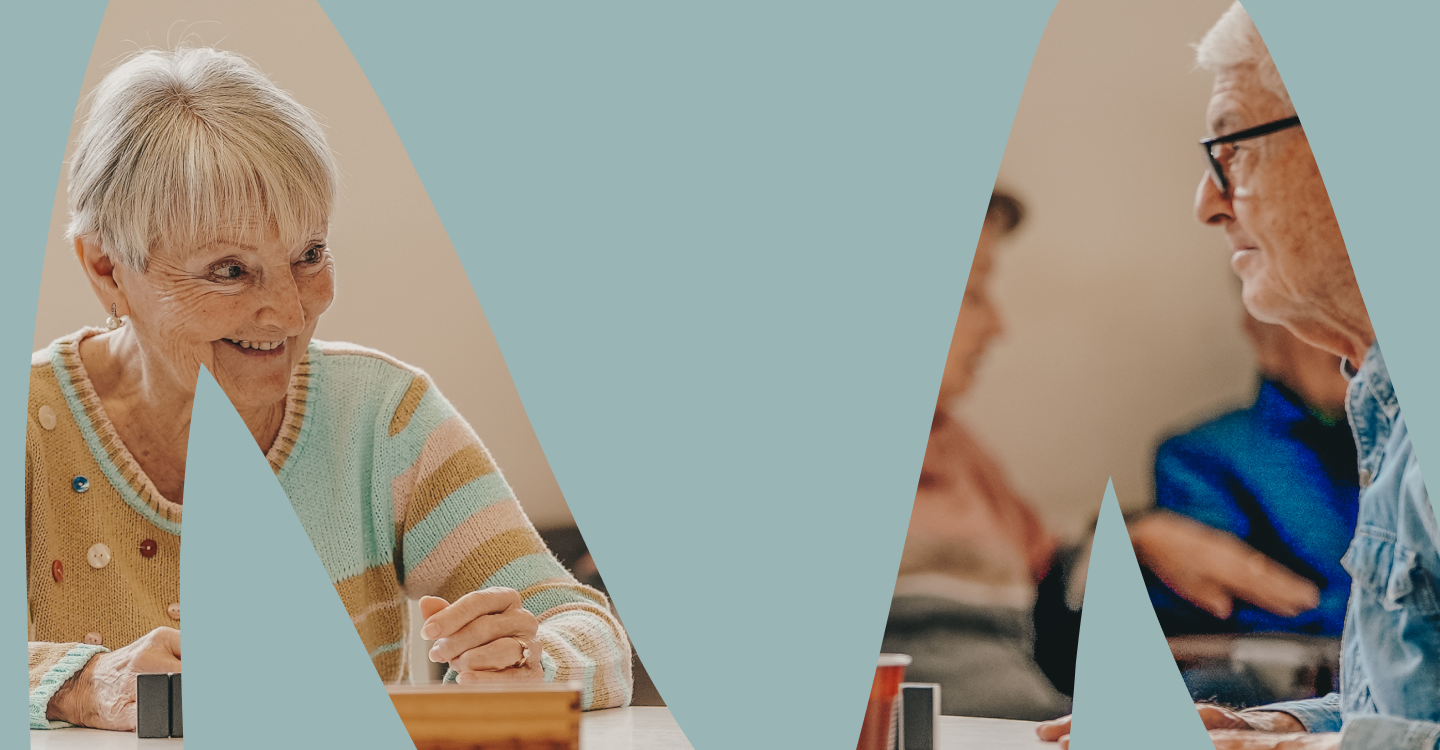
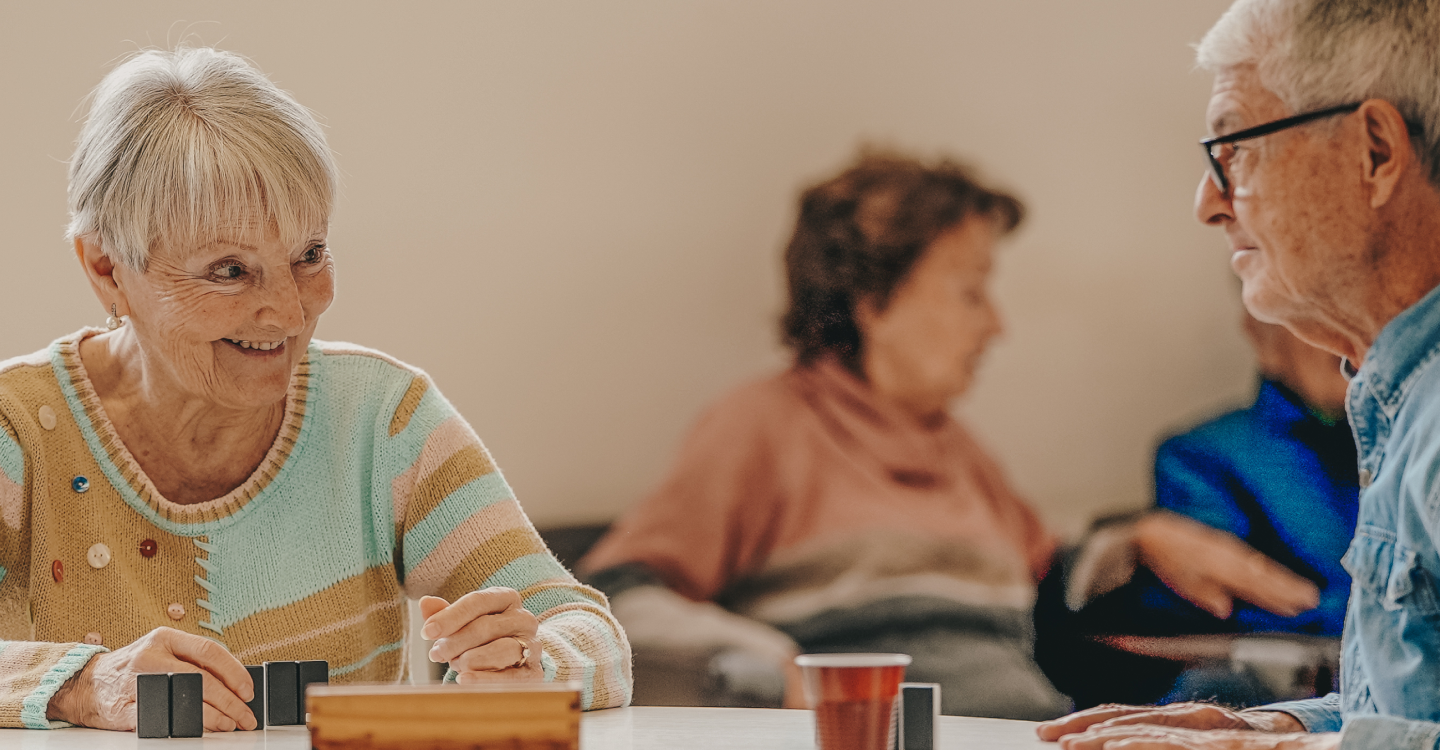
fixed typography stuff, fixed number comppnent

diff --git a/components/partials/home/HeroSection.vue b/components/partials/home/HeroSection.vue
@@ -1,7 +1,11 @@
 <template>
-    <section class="h-screen max-h-[46.94rem] relative flex justify-center items-center">
-        <img v-if="width <= 768 && width != null" class="z-0 absolute top-0 left-0 h-full w-full object-cover object-center md:hidden" src="/images/home/hero-background.webp" alt="" srcset="">
-        <img  v-if="width > 768 && width != null" class="hidden z-0 absolute top-0 left-0 h-full w-full object-cover object-left-top md:block" src="/images/home/hero-background-md.webp" alt="" srcset="">
+    <section class="h-screen max-h-[46.94rem] relative flex justify-center items-center bg-Turquoise overflow-hidden">
+        <div v-if="width <= 768 && width != null" class="background-wrapper absolute top-[7rem] left-0 h-full w-full z-0 ">
+            <img  class="z-0 fixed top-0 left-0 h-full w-full object-cover object-center" src="/images/home/hero-background.webp" alt="" srcset="">
+        </div>
+        <div v-if="width > 768 && width != null" class="background-wrapper-md absolute top-0 left-0 h-full w-full z-0 ">
+            <img   class="fixed top-0 left-0 h-full w-full object-cover object-left-top " src="/images/home/hero-background-md.webp" alt="" srcset="">
+        </div>
         
         <div class="flex z-10 flex-col items-center gap-y-8 text-center px-4 ">
             <h1 class="text-2xl font-bold tracking-[0.15rem] max-w-[20.2rem] 
@@ -21,3 +25,12 @@
      });
  });
 </script>
+
+<style scoped>
+.background-wrapper-md{
+    clip-path: path("M1800.12 954.513C1804.19 980.26 1799.71 1004.06 1786.67 1025.92C1773.64 1047.78 1756.87 1066.93 1736.37 1083.37C1715.36 1096.6 1692.49 1108.47 1667.76 1118.98C1646.24 1128.99 1627.43 1135.27 1611.34 1137.82C1543.73 1148.53 1480.17 1122.3 1420.67 1059.15C1360.65 992.776 1307.67 918.693 1261.71 836.898C1215.25 751.884 1177.85 672.033 1149.52 597.343C1124.41 522.144 1111.34 481.326 1110.32 474.889C1096.61 513.35 1085.12 576.203 1075.83 663.448C1069.77 750.183 1059.13 839.292 1043.92 930.775C1028.2 1019.04 1003.15 1100.53 968.786 1175.26C937.129 1246.25 887.496 1287.1 819.889 1297.81C787.695 1302.91 754.052 1288.44 718.961 1254.41C683.869 1220.38 648.604 1174.83 613.164 1117.77C577.724 1060.7 541.009 995.583 503.021 922.423C468.251 848.753 432.127 776.947 394.648 707.005C360.389 636.554 326.894 570.93 294.163 510.133C260.923 446.118 229.977 396.586 201.325 361.535C189.654 412.869 182.397 481.649 179.553 567.874C179.928 653.589 182.678 743.877 187.802 838.738C192.416 930.38 198.64 1021.77 206.473 1112.9C214.307 1204.03 223.576 1283.39 234.28 1350.97C241.416 1396.03 233.636 1430.25 210.939 1453.64C191.462 1476.52 168.845 1490 143.09 1494.08C107.677 1499.69 68.6954 1482.77 26.1458 1443.32C-16.9135 1400.66 -62.0117 1345.12 -109.149 1276.71C-156.286 1208.29 -203.343 1129.97 -250.319 1041.74C-294.075 952.998 -336.222 864.002 -376.76 774.751C-414.078 684.989 -445.802 599.29 -471.933 517.654C-498.573 432.8 -516.48 361.408 -525.656 303.479C-532.282 261.641 -536.789 222.766 -539.177 186.855C-540.545 157.38 -543.268 129.77 -547.346 104.023C-548.204 77.7672 -548.888 63.0299 -549.398 59.8116C-550.927 50.1567 -555.166 44.23 -562.114 42.0316C-565.844 39.3231 -568.728 31.5323 -570.767 18.6591C-572.296 9.00422 -563.322 -7.26278 -543.844 -30.1419C-521.657 -56.7492 -497.686 -72.0925 -471.931 -76.1717C-426.859 -83.3104 -396.355 -78.2446 -380.419 -60.9744C-361.264 -44.214 -349.647 -22.9607 -345.57 2.78563C-344.04 12.4405 -343.356 27.1778 -343.517 46.9975C-340.459 66.3074 -333.578 109.754 -322.873 177.339C-315.737 222.395 -296.984 288.704 -266.615 376.267C-236.246 463.83 -202.402 552.492 -165.084 642.253C-127.766 732.015 -91.4677 815.339 -56.1886 892.228C-18.2 965.388 10.3721 1010.35 29.5274 1027.11C33.9274 1013.21 34.8529 998.223 32.3043 982.131C32.4653 962.311 33.3909 947.319 35.0812 937.154L25.5047 532.89C22.5807 431.084 31.7697 322.41 53.0717 206.869C77.0834 87.5994 106.783 -6.17836 142.169 -74.4646C154.189 -102.76 169.856 -118.438 189.173 -121.498C208.489 -124.557 228.49 -112.879 249.174 -86.4639C318.176 -5.01992 372.691 78.7187 412.719 164.752C455.456 247.057 493.364 330.126 526.443 413.961C562.232 494.067 599.885 575.528 639.403 658.343C681.631 737.43 738.6 815.831 810.312 893.547C829.441 847.63 850.931 774.946 874.781 675.497C898.122 572.829 921.463 470.161 944.804 367.493C971.365 264.316 996.744 174.521 1020.94 98.1096C1044.63 18.4798 1066.14 -22.8648 1085.45 -25.9242C1095.11 -27.4539 1111.46 -28.3943 1134.51 -28.7452C1157.55 -29.0963 1173.91 -30.0367 1183.56 -31.5664C1212.54 -36.1555 1242.04 -6.18764 1272.06 58.3372C1301.57 119.644 1329.9 194.333 1357.05 282.406C1386.91 366.751 1415.41 452.959 1442.56 541.032C1472.42 625.377 1500.58 688.547 1527.03 730.544C1545.01 760.687 1569.16 788.202 1599.51 813.087C1629.85 837.973 1659.94 861.249 1689.77 882.916C1726.55 906.782 1763.33 930.648 1800.12 954.513Z");
+}
+.background-wrapper{
+    clip-path: path("M868.503 501.529C870.402 513.516 868.316 524.598 862.245 534.775C856.175 544.952 848.368 553.868 838.825 561.524C829.045 567.68 818.397 573.207 806.88 578.103C796.863 582.761 788.107 585.684 780.613 586.871C749.136 591.856 719.546 579.648 691.842 550.245C663.9 519.343 639.231 484.852 617.835 446.77C596.201 407.19 578.79 370.013 565.6 335.239C553.908 300.228 547.826 281.224 547.351 278.227C540.968 296.133 535.616 325.396 531.294 366.016C528.471 406.397 523.518 447.884 516.436 490.477C509.116 531.571 497.456 569.513 481.456 604.302C466.717 637.355 443.609 656.375 412.132 661.36C397.144 663.734 381.48 656.999 365.143 641.155C348.805 625.312 332.386 604.105 315.886 577.535C299.386 550.965 282.293 520.65 264.606 486.588C248.418 452.289 231.6 418.858 214.15 386.295C198.2 353.494 182.606 322.941 167.367 294.636C151.891 264.832 137.483 241.771 124.143 225.452C118.71 249.352 115.331 281.374 114.007 321.519C114.182 361.426 115.462 403.462 117.848 447.626C119.996 490.293 122.893 532.84 126.541 575.269C130.188 617.698 134.503 654.646 139.487 686.111C142.809 707.088 139.187 723.022 128.62 733.911C119.552 744.563 109.022 750.839 97.031 752.738C80.5434 755.349 62.3945 747.472 42.5844 729.106C22.537 709.242 1.54032 683.385 -20.4056 651.534C-42.3516 619.683 -64.26 583.218 -86.131 542.139C-106.503 500.823 -126.126 459.389 -144.999 417.836C-162.373 376.045 -177.143 336.145 -189.309 298.138C-201.712 258.631 -210.05 225.393 -214.321 198.422C-217.406 178.944 -219.505 160.845 -220.616 144.125C-221.253 130.403 -222.521 117.548 -224.42 105.561C-224.819 93.3365 -225.138 86.4752 -225.375 84.9768C-226.087 80.4817 -228.061 77.7224 -231.296 76.6989C-233.032 75.4379 -234.375 71.8106 -235.324 65.8172C-236.036 61.3221 -231.858 53.7486 -222.789 43.0966C-212.46 30.7088 -201.299 23.5654 -189.308 21.6662C-168.324 18.3426 -154.122 20.7011 -146.703 28.7417C-137.784 36.5449 -132.376 46.44 -130.478 58.4269C-129.766 62.9219 -129.447 69.7833 -129.522 79.0109C-128.098 88.0011 -124.894 108.229 -119.911 139.695C-116.588 160.672 -107.857 191.544 -93.7181 232.311C-79.5789 273.078 -63.8221 314.357 -46.4477 356.148C-29.0734 397.939 -12.1736 436.733 4.25143 472.53C21.9381 506.592 35.2405 527.524 44.1588 535.327C46.2073 528.859 46.6382 521.879 45.4516 514.387C45.5266 505.159 45.9576 498.179 46.7445 493.447L42.2859 305.231C40.9246 257.832 45.2028 207.236 55.1205 153.443C66.2998 97.9141 80.127 54.2534 96.6023 22.461C102.198 9.28708 109.493 1.98795 118.486 0.563555C127.479 -0.86084 136.791 4.5761 146.421 16.8744C178.547 54.7928 203.928 93.7795 222.564 133.834C242.461 172.154 260.11 210.829 275.511 249.86C292.174 287.156 309.704 325.082 328.103 363.639C347.763 400.46 374.286 436.962 407.674 473.144C416.58 451.766 426.585 417.927 437.689 371.625C448.556 323.826 459.423 276.026 470.29 228.226C482.656 180.189 494.472 138.383 505.739 102.807C516.768 65.7337 526.779 46.4846 535.773 45.0602C540.269 44.348 547.882 43.9102 558.612 43.7468C569.341 43.5834 576.954 43.1456 581.451 42.4334C594.941 40.2968 608.674 54.2491 622.651 84.2904C636.391 112.833 649.581 147.607 662.221 188.612C676.123 227.88 689.394 268.017 702.035 309.022C715.937 348.291 729.046 377.701 741.361 397.254C749.73 411.288 760.978 424.098 775.105 435.684C789.231 447.27 803.24 458.107 817.129 468.195C834.254 479.306 851.378 490.417 868.503 501.529Z");
+}
+</style>

diff --git a/components/partials/balanc/ThirdSection.vue b/components/partials/balanc/ThirdSection.vue
@@ -55,31 +55,31 @@
                 </div>
                 <div class="w-full py-5 px-2.5 flex justify-between items-center gap-x-4">
                     <div >Fundació Catalunya La Pedrera</div>
-                    <div class="shrink-0 font-super-rotesk-comp tracking-[2px] font-bold">65</div>
+                    <div class="shrink-0 font-super-rotesk-comp tracking-[2px] font-bold"><Number  :number="65" /></div>
                 </div>
                 <div class="w-full py-5 px-2.5 flex justify-between items-center gap-x-4">
                     <div >Col·legi Oms i de Prat</div>
-                    <div class="shrink-0 font-super-rotesk-comp tracking-[2px] font-bold">66</div>
+                    <div class="shrink-0 font-super-rotesk-comp tracking-[2px] font-bold"><Number  :number="66" /></div>
                 </div>
                 <div class="w-full py-5 px-2.5 flex justify-between items-center gap-x-4">
                     <div >Serveis Personals TFCLP (1)</div>
-                    <div class="shrink-0 font-super-rotesk-comp tracking-[2px] font-bold">194</div>
+                    <div class="shrink-0 font-super-rotesk-comp tracking-[2px] font-bold"><Number  :number="194" /></div>
                 </div>
                 <div class="w-full py-5 px-2.5 flex justify-between items-center gap-x-4">
                     <div >Fundació Topromi</div>
-                    <div class="shrink-0 font-super-rotesk-comp tracking-[2px] font-bold">44</div>
+                    <div class="shrink-0 font-super-rotesk-comp tracking-[2px] font-bold"><Number  :number="44" /></div>
                 </div>
                 <div class="w-full py-5 px-2.5 flex justify-between items-center gap-x-4">
                     <div >Fundació Alícia</div>
-                    <div class="shrink-0 font-super-rotesk-comp tracking-[2px] font-bold">19</div>
+                    <div class="shrink-0 font-super-rotesk-comp tracking-[2px] font-bold"><Number  :number="19" /></div>
                 </div>
                 <div class="w-full py-5 px-2.5 flex justify-between items-center gap-x-4">
                     <div >Món Sant Benet SL</div>
-                    <div class="shrink-0 font-super-rotesk-comp tracking-[2px] font-bold">65</div>
+                    <div class="shrink-0 font-super-rotesk-comp tracking-[2px] font-bold"><Number  :number="65" /></div>
                 </div>
                 <div class="w-full py-5 px-2.5 flex justify-between items-center gap-x-4">
                     <div >Cooperativa 2147 Mans</div>
-                    <div class="shrink-0 font-super-rotesk-comp tracking-[2px] font-bold">37</div>
+                    <div class="shrink-0 font-super-rotesk-comp tracking-[2px] font-bold"><Number  :number="37" /></div>
                 </div>
 
 
@@ -92,19 +92,19 @@
                 
                 <div class="w-full py-5 px-2.5 flex justify-between items-center gap-x-4">
                     <div >Serveis Espais Socials (2)</div>
-                    <div class="shrink-0 font-super-rotesk-comp tracking-[2px] font-bold">264</div>
+                    <div class="shrink-0 font-super-rotesk-comp tracking-[2px] font-bold"><Number  :number="264" /></div>
                 </div>
                 <div class="w-full py-5 px-2.5 flex justify-between items-center gap-x-4">
                     <div >Serveis induïts La Pedrera (3)</div>
-                    <div class="shrink-0 font-super-rotesk-comp tracking-[2px] font-bold">40</div>
+                    <div class="shrink-0 font-super-rotesk-comp tracking-[2px] font-bold"><Number  :number="40" /></div>
                 </div>
                 <div class="w-full py-5 px-2.5 flex justify-between items-center gap-x-4">
                     <div >Serveis induïts Món Sant Benet (3)</div>
-                    <div class="shrink-0 font-super-rotesk-comp tracking-[2px] font-bold">16</div>
+                    <div class="shrink-0 font-super-rotesk-comp tracking-[2px] font-bold"><Number  :number="16" /></div>
                 </div>
                 <div class="w-full py-5 px-2.5 flex justify-between items-center gap-x-4">
                     <div >Productors associats</div>
-                    <div class="shrink-0 font-super-rotesk-comp tracking-[2px] font-bold">39</div>
+                    <div class="shrink-0 font-super-rotesk-comp tracking-[2px] font-bold"><Number  :number="39" /></div>
                 </div>
 
 

diff --git a/components/UI/Number.vue b/components/UI/Number.vue
@@ -1,7 +1,7 @@
 <template>
     <span ref="numberComponent">
         <span v-if="dot_formated">{{formatedNumber}}</span>
-        <span v-else>{{displayedNumber}}</span>
+        <span v-else>{{toNaturalNum(displayedNumber)}}</span>
         
     </span>
 </template>
@@ -28,10 +28,14 @@ function countDecimals(number) {
     numberOfDecimals.value = numberString.length - decimalIndex - 1;
   }
 }
-
+function toNaturalNum(num) {
+    if(!numberOfDecimals.value && props.number < 100){
+        return Math.trunc(num);
+    }
+    return num;
+}
 function increase() {
     clearInterval(interval.value)
-    // displayedNumber.value = props.number/200
     interval.value = setInterval(() => {
         let temp = displayedNumber.value + props.number/100
         if(props.number/100 < 1 && !numberOfDecimals.value){

diff --git a/components/partials/territori/HeroSection.vue b/components/partials/territori/HeroSection.vue
@@ -8,9 +8,9 @@
                         sm:text-[2.5rem]
                         md:text-[3rem] md:tracking-[-1.28px]
                         lg:text-[4rem]">Impacte social</h1>
-            <h2 class=" text-[1.4rem] xs:text-[2.5rem] font-normal tracking-[0.8rem] max-w-[28.2rem] leading-none 
+            <h2 class=" text-[1.4rem] xs:text-[2.5rem] tracking-[0.25rem] font-normal  max-w-[28.2rem] leading-none 
                         sm:text-[3.6rem] sm:max-w-[34rem]
-                        md:text-[5rem] md:max-w-[46.25rem]
+                        md:text-[5rem] md:max-w-[46.25rem] md:tracking-[0.8rem]
                         lg:text-[7rem] lg:max-w-[57rem]">
                SOSTENIBILITAT <br> I TERRITORI
             </h2>

diff --git a/components/partials/envelliment-digne/HeroSection.vue b/components/partials/envelliment-digne/HeroSection.vue
@@ -8,9 +8,9 @@
                         sm:text-[2.5rem]
                         md:text-[3rem] md:tracking-[-1.28px]
                         lg:text-[4rem]">Impacte social</h1>
-            <h2 class="text-[1.8rem] xs:text-[2.5rem] font-normal tracking-[0.8rem] max-w-[22.2rem] leading-none 
+            <h2 class="text-[1.8rem] xs:text-[2.5rem] font-normal tracking-[0.25rem] max-w-[22.2rem] leading-none 
                         sm:text-[4rem] sm:max-w-[28rem]
-                        md:text-[6rem] md:max-w-[46.25rem]
+                        md:text-[6rem] md:max-w-[46.25rem] md:tracking-[0.8rem]
                         lg:text-[8rem]">
               ENVELLIMENT <br> DIGNE
             </h2>

diff --git a/components/partials/impact/HeroSection.vue b/components/partials/impact/HeroSection.vue
@@ -8,9 +8,9 @@
                         sm:text-[2.5rem]
                         md:text-[3rem] md:tracking-[-1.28px]
                         lg:text-[4rem]">Reimaginar la Fundació</h2>
-            <h1 class="text-[2.5rem] font-normal tracking-[0.8rem] max-w-[22.2rem] leading-none 
+            <h1 class="text-[2.5rem] font-normal tracking-[0.25rem] max-w-[22.2rem] leading-none 
                         sm:text-[4rem] sm:max-w-[28rem]
-                        md:text-[6rem] md:max-w-[46.25rem]
+                        md:text-[6rem] md:max-w-[46.25rem] md:tracking-[0.8rem]
                         lg:text-[8rem]">IMPACTE SOCIAL</h1>
         </div>
     </section>

diff --git a/components/partials/ocupacio-inclusiva/HeroSection.vue b/components/partials/ocupacio-inclusiva/HeroSection.vue
@@ -8,9 +8,9 @@
                         sm:text-[2.5rem]
                         md:text-[3rem] md:tracking-[-1.28px]
                         lg:text-[4rem] ">Impacte social</h1>
-            <h2 class="text-[2.5rem] font-normal tracking-[0.8rem] max-w-[22.2rem] leading-none 
+            <h2 class="text-[2.5rem] font-normal tracking-[0.25rem] max-w-[22.2rem] leading-none 
                         sm:text-[4rem] sm:max-w-[28rem]
-                        md:text-[6rem] md:max-w-[46.25rem]
+                        md:text-[6rem] md:max-w-[46.25rem] md:tracking-[0.8rem]
                         lg:text-[8rem]">
                 OCUPACIÓ INCLUSIVA
             </h2>

diff --git a/components/partials/vocacio/HeroSection.vue b/components/partials/vocacio/HeroSection.vue
@@ -8,9 +8,9 @@
                         sm:text-[2.5rem]
                         md:text-[3rem] md:tracking-[-1.28px]
                         lg:text-[4rem]">Impacte social</h2>
-            <h1 class="text-[2.5rem] font-normal tracking-[0.8rem] max-w-[22.2rem] leading-none 
+            <h1 class="text-[2.5rem] font-normal tracking-[0.25rem] max-w-[22.2rem] leading-none 
                         sm:text-[4rem] sm:max-w-[28rem]
-                        md:text-[6rem] md:max-w-[46.25rem]
+                        md:text-[6rem] md:max-w-[46.25rem] sm:tracking-[0.8rem]
                         lg:text-[8rem]">VOCACIÓ I TALENT</h1>
         </div>
     </section>

diff --git a/components/partials/alimentacio/HeroSection.vue b/components/partials/alimentacio/HeroSection.vue
@@ -8,7 +8,7 @@
                         sm:text-[2.5rem]
                         md:text-[3rem] md:tracking-[-1.28px]
                         lg:text-[4rem] ">Impacte social</h1>
-            <h2 class=" text-[2.5rem] sm:text-[4rem] md:text-[5rem] lg:text-[8rem] leading-[1] font-super-rotesk-comp tracking-[0.25rem] md:tracking-[0.8rem] max-w-[68.75rem]">
+            <h2 class=" text-[2.5rem] sm:text-[4rem] md:text-[5rem] lg:text-[8rem] leading-[1] font-super-rotesk-comp tracking-[0.25rem]  md:tracking-[0.8rem] max-w-[68.75rem]">
                 ALIMENTACIÓ <br> PER A LA SALUT
             </h2>
         </div>

diff --git a/components/partials/equip/HeroSection.vue b/components/partials/equip/HeroSection.vue
@@ -8,9 +8,9 @@
                         sm:text-[2.5rem]
                         md:text-[3rem] md:tracking-[-1.28px]
                         lg:text-[4rem]">Reimaginar la Fundació</h2>
-            <h1 class="text-[2.5rem] font-normal tracking-[0.8rem] leading-none 
+            <h1 class="text-[2.5rem] font-normal tracking-[0.25rem] leading-normal 
                         sm:text-[4rem]
-                        md:text-[6rem] 
+                        md:text-[6rem] md:tracking-[0.8rem]
                         lg:text-[8rem] ">EQUIP</h1>
         </div>
     </section>

diff --git a/components/UI/ArticlePreview.vue b/components/UI/ArticlePreview.vue
@@ -10,7 +10,7 @@
             <div class="font-reenie-beanie">
                 <slot name="number" />
             </div>
-            <h1 class=" leading-[2rem]"><slot name="title" /></h1>
+            <h1 class="leading-[2rem]"><slot name="title" /></h1>
             <div><slot name="description" /></div>
             <nuxt-link :to="link" class="bg-black py-4 rounded-full w-full md:max-w-[15.125rem] flex items-center justify-center gap-x-4 text-white 
                     hover:bg-Turquoise transition-colors duration-200 ease-in-out">
